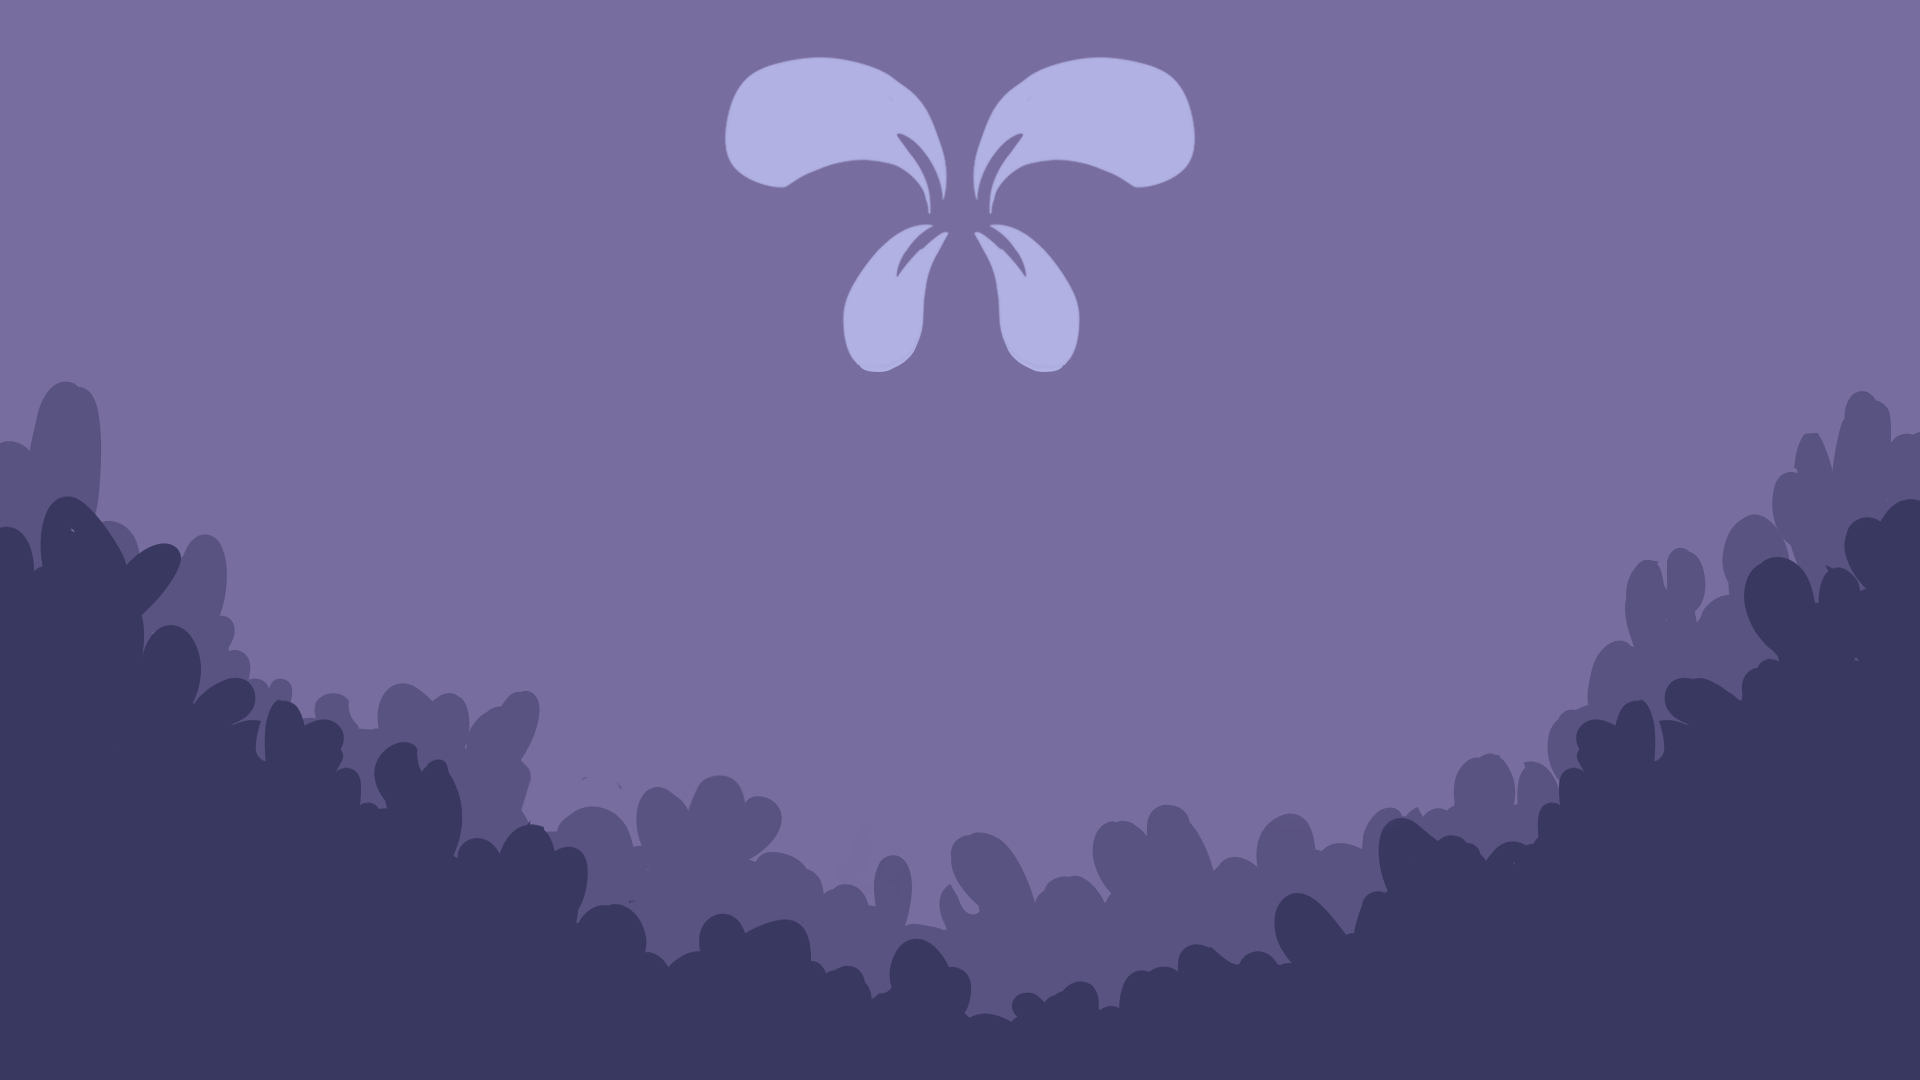
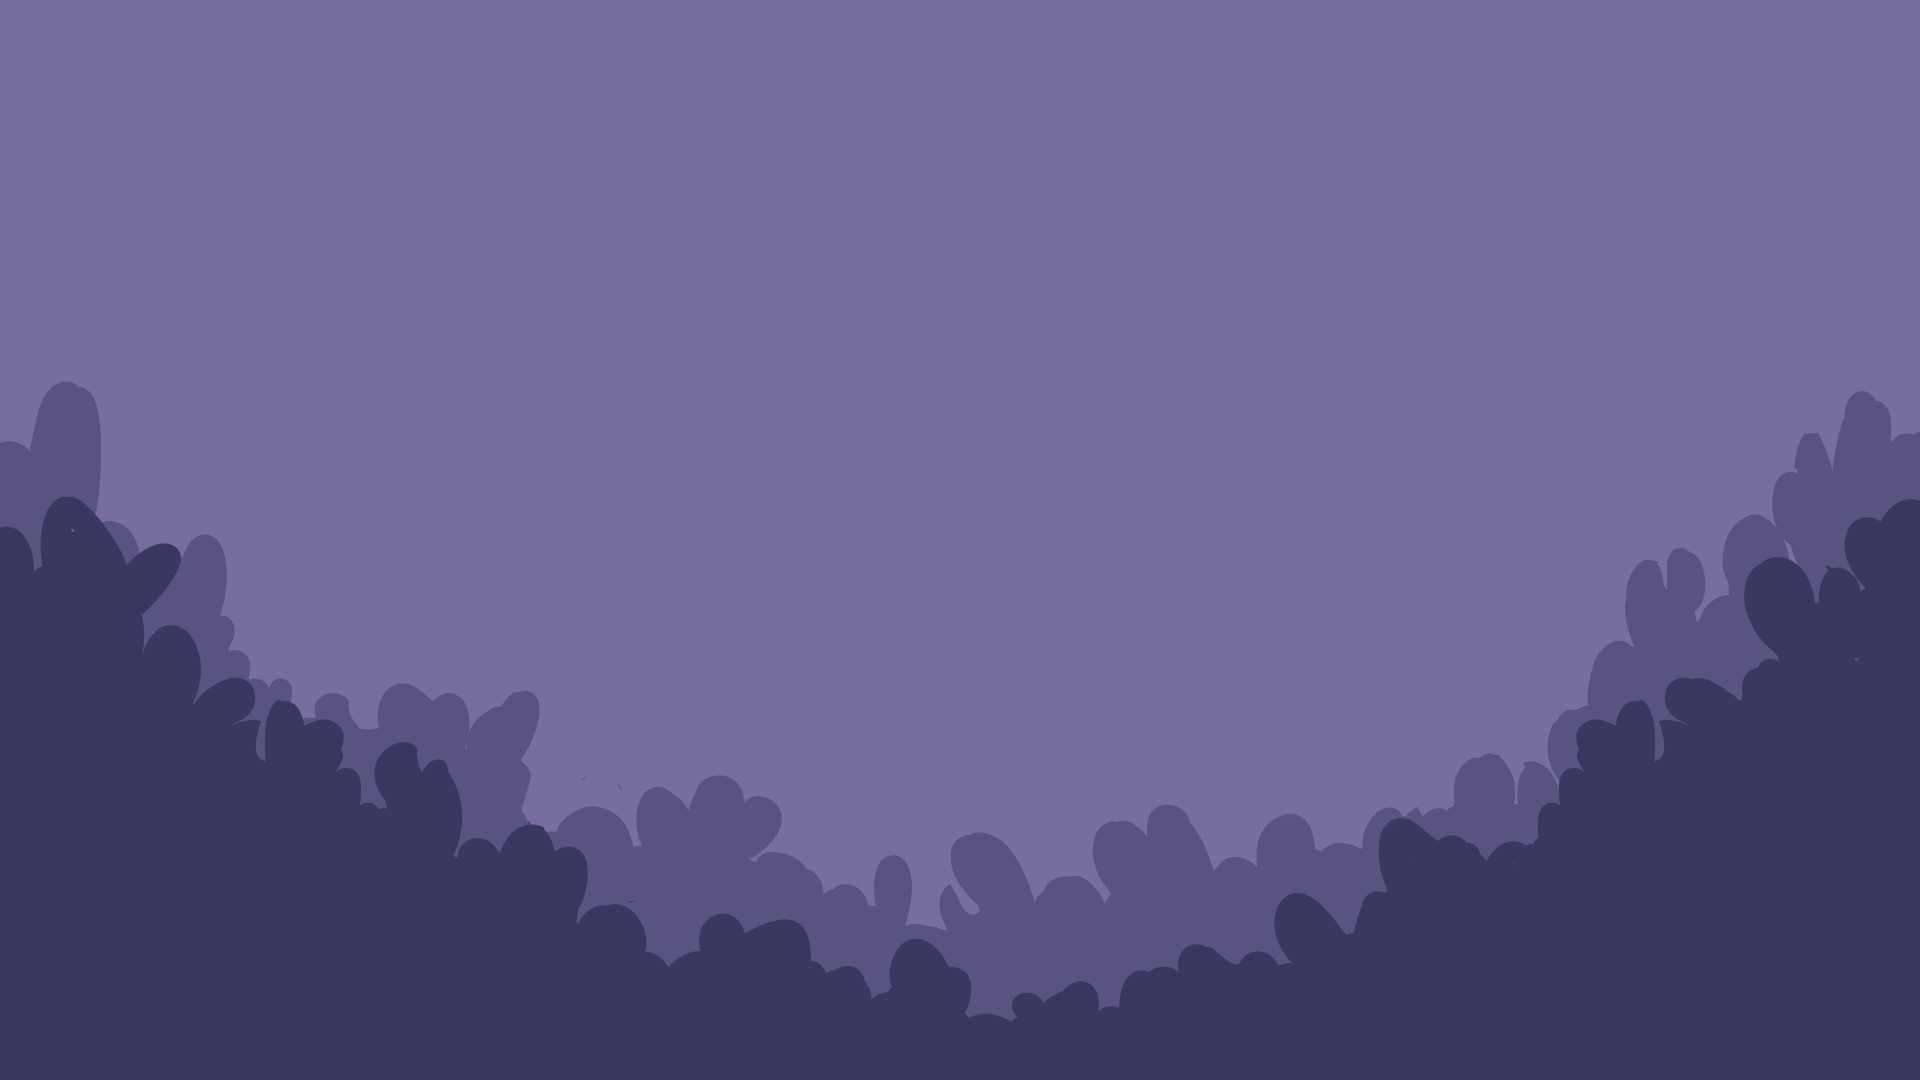
Add files via upload

Changed region(s): [[0.375, 0.0306, 0.625, 0.1833], [0.4375, 0.2139, 0.5625, 0.3667]]

diff --git a/templates/login-old.html b/templates/login-old.html
@@ -1,0 +1,58 @@
+<!DOCTYPE html>
+<head>
+	<title>Virtual Assistant - Log In</title>
+	<link rel="stylesheet" href="../static/style.css">
+</head>
+
+<body>
+	<div class="loginbox">
+		<div class="button-box">
+			<div id="btn"></div>
+			<button type="button" class="toggle-btn" onclick="login()">Log In</button>
+			<button type="button" class="toggle-btn" onclick="register()">Register</button>
+		</div>
+		<div id="photo">
+			<img class="photo" src="../static/admin.jpg" alt="user">
+		</div>
+		<form id="login" method="POST" class="input-group">
+			<input type="hidden" name="CheckLogReg" value="login">
+				{% if data == "fail" %}
+					 <div style="font-size: small; text-align: center;">Incorrect Password</div>
+				{% endif %}
+			<input type="text" class="input-field" name="LoginUserName" placeholder="Username" required>
+			<input type="password" class="input-field" name="LoginPassword" placeholder="Password" required>
+			<!-- <input type="checkbox" class="check-box"><span>Remember me</span> -->
+			<button type="submit" class="submit-btn" style="margin-top: 5vh;">Log In</button>
+		</form>
+		<form id="register" method="POST" class="input-group">
+			<input type="hidden" name="CheckLogReg" value="register" required>
+			<input type="text" class="input-field" placeholder="Username" name="RegisterUserName" required>
+			<input type="password" class="input-field" placeholder="Password" name="RegisterPassword" required>
+			<!-- <input type="checkbox" class="check-box"><span>I agree to the terms and conditions</span> -->
+			<button type="submit" class="submit-btn" style="margin-top: 5vh;">Register</button>
+		</form>
+
+		
+	</div>
+
+	<script>
+	var x = document.getElementById("login");
+	var y = document.getElementById("register");
+	var z = document.getElementById("btn");
+
+	function register(){
+		x.style.left = "-400px";
+		y.style.left = "50px";
+		z.style.left = "110px";
+	}
+
+	function login(){
+		x.style.left = "50px";
+		y.style.left = "450px";
+		z.style.left = "0";
+	}
+	</script>
+
+</body>
+
+</html>

diff --git a/static/welcome_page.css b/static/welcome_page.css
@@ -15,9 +15,7 @@ html {
 }
 
 #firstPage {
-  background-image: url("../static/welcome_page.png");
-  background-repeat: no-repeat;
-  background-size: cover;
+
   text-align: center;
   overflow: hidden;
 }
@@ -54,13 +52,16 @@ html {
 
 @font-face {
   font-family: 'Avenir';
-  src: url('../static/Font-Reg.otf');
+  src: url('Font-Reg.otf');
   font-style: normal;
   font-weight:50;
 }
 .violetTitle1{
   font-family: 'Avenir';
   font-weight:100;
+  position:relative;
+  top:47%;
+  left:0.35%;
 }
 .violetTitle2{
   font-family: 'Avenir';
@@ -71,6 +72,9 @@ html {
 #violetDesc{
   font-family: 'Avenir';
   font-weight:100;
+  font-size:1vw;
+  position:relative;
+  top:50%;
 }
 
 #getStartedBtn {
@@ -80,7 +84,7 @@ html {
   margin-right: 1.5vw;
   margin-top: 1.5vh;
   background-color: #393861;
-  border: none;
+  border: none  ;
   border-radius: 30px;
   color: white;
   font-size: 1.2vw;
@@ -90,4 +94,19 @@ html {
 #getStartedBtn:hover {
   background-color: #696780;
   cursor: pointer;
+}
+#logo {
+  position: absolute;
+  width:24.6vw;
+  height: 40vh;
+  top:50%;
+  left:50%;
+  transform: TranslateX(-50%) TranslateY(-105%);
+  z-index: 0;
+}
+#background{
+  width:100%;
+  height:100%;
+  position:absolute;
+  z-index: -1;
 }

diff --git a/templates/welcome_page.html b/templates/welcome_page.html
@@ -49,11 +49,14 @@
     </style>
   </head>
   <body>
+    <img id="background" src="../static/welcome_page.png">
+    <img id="logo" src="../static/flower.png">
     <div id="firstPage">
-      <a href="{{url_for('login')}}"><button id="getStartedBtn"> Get Started </button></a>
+      <button id="getStartedBtn"> Get Started </button>
+      
       <div id="headingArea">
-        <h1 class="violetTitle1">V<span class="violetTitle2"> i o l e t</span></h1>
-        <h2 id="violetDesc">Most people have more work to do than they can manage. I have been specially designed for <br> you to manage your time effectively and hassle free.</h2>
+        <h1 class="violetTitle1">V<span class="violetTitle2"> I O L E T</span></h1>
+        <h2 id="violetDesc">Most people have more work to do than they can manage. <br> <br> I have been especially designed for you to manage your time effectively and hassle free.</h2>
       </div>
       <div id="bottomArea">
         Scroll down to see what I can do for you<br>

diff --git a/templates/displayrecipes.html b/templates/displayrecipes.html
@@ -99,6 +99,10 @@
 				color: var(--yellowish);
 				display: contents;
 			}
+			.title{
+				margin-left: 2vw;
+				margin-top: 2vh;
+			}
         </style>
     </head>
     <body>
@@ -136,6 +140,9 @@
                     </h2>
                 </div>
                 <div class="displayBack">
+                	<div class="ingredientstitle">
+                		<h1 class="title">Ingredients</h1>
+                	</div>
                 </div>
                 <!--             	<h1>{{data['chef']}}</h1>
             	<h1>{{data['procedure']}}</h1>
